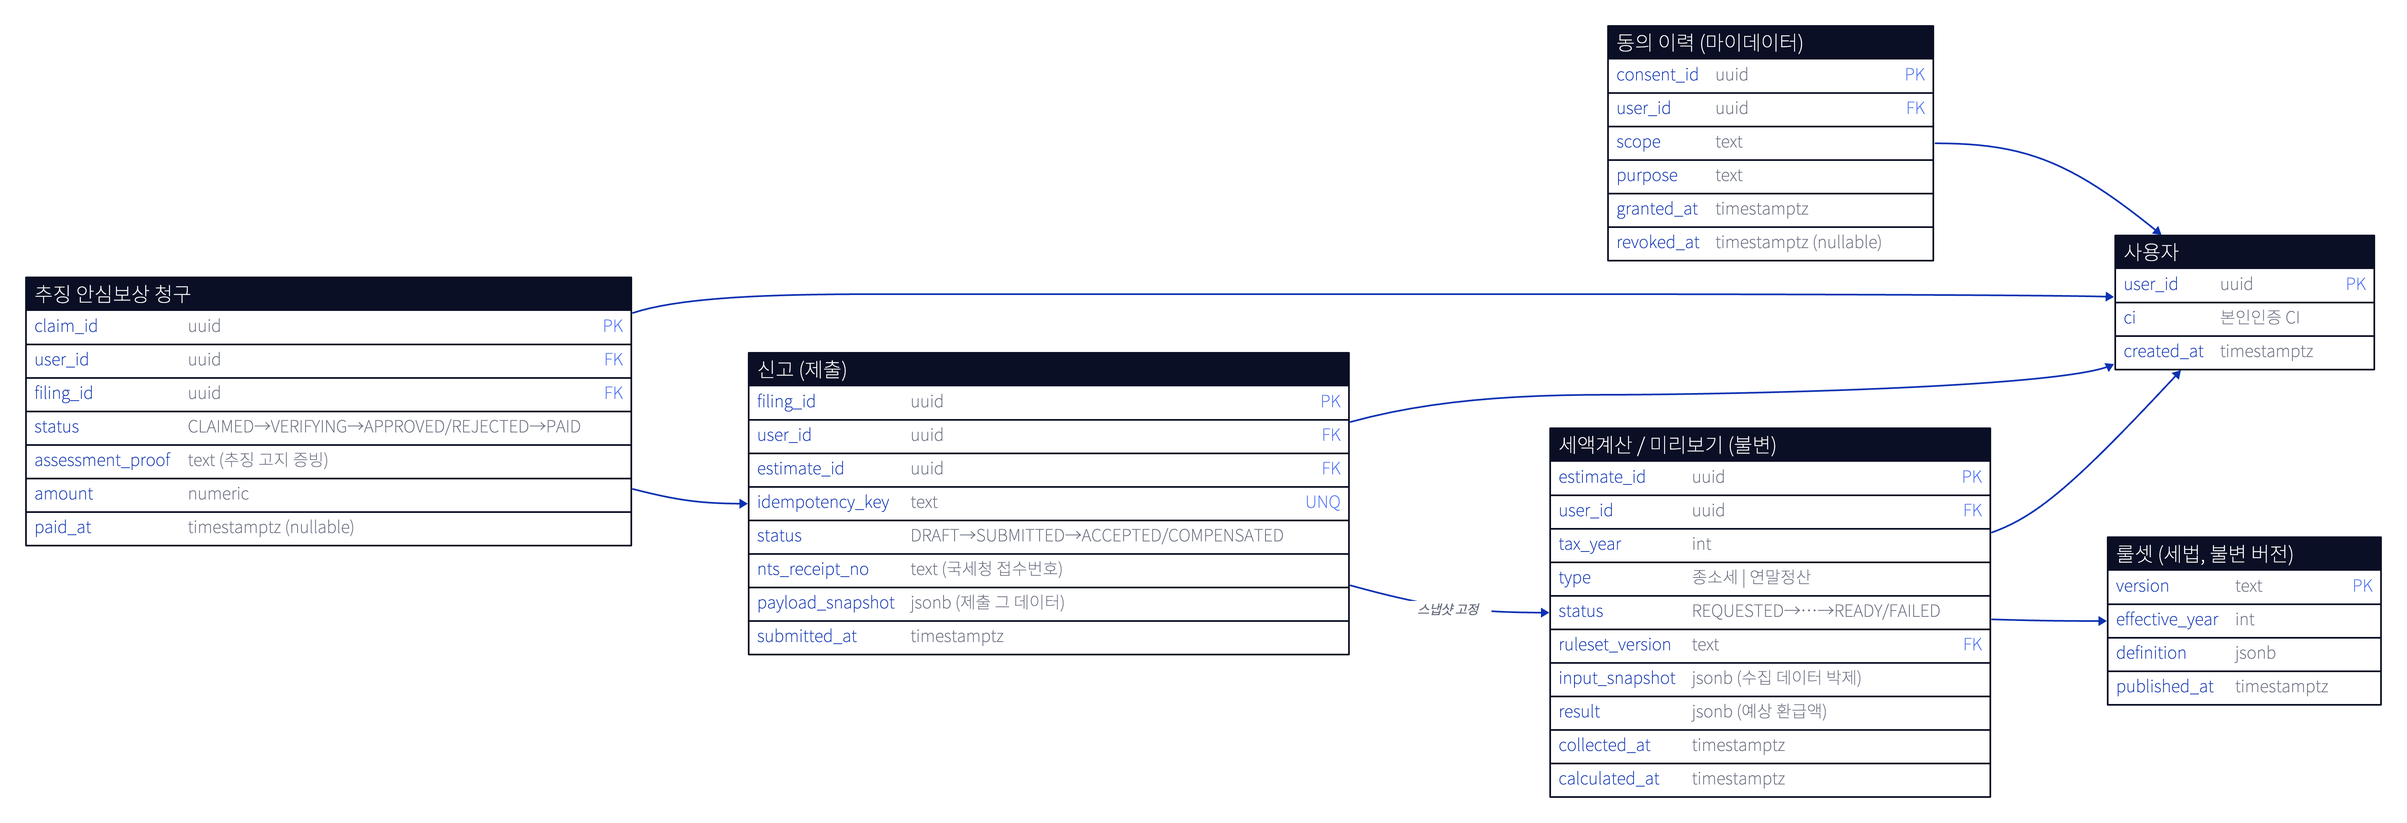
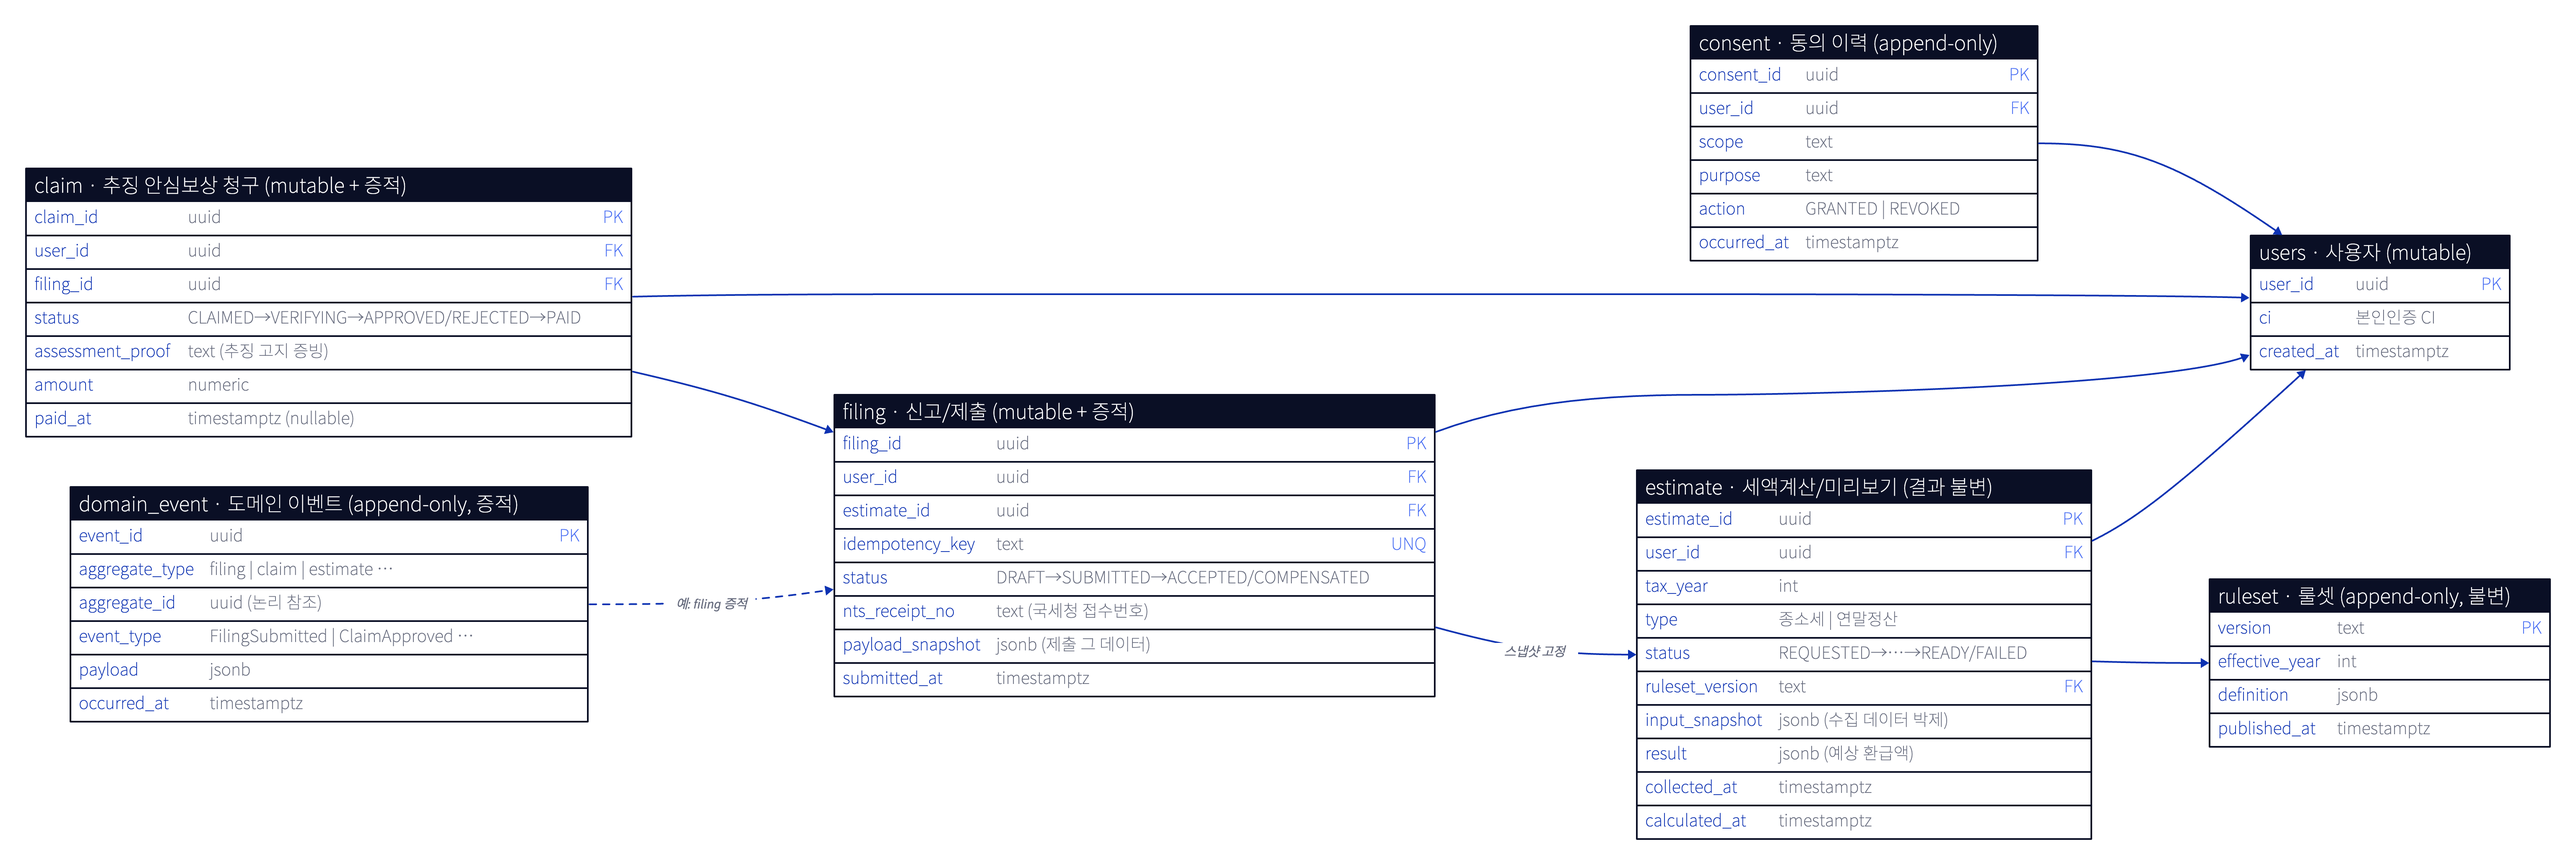
docs: 테이블 성격(mutable/append-only)·증적 정책 추가 + ERD 보강
- 테이블별 mutable vs append-only 분류 + 증적 방식 표
- 증적 backbone = 도메인 이벤트 로그(Spring Modulith 아웃박스→Kafka+domain_event), 불변 스냅샷, JaVers/Envers는 선택
- ERD: 제목 영어 먼저·한글 뒤 병기, consent append-only(action/occurred_at), domain_event 테이블 추가

diff --git a/system-design/260617-종소세-도메인모델링.md b/system-design/260617-종소세-도메인모델링.md
@@ -17,11 +17,12 @@
 
 ## 2. 바운디드 컨텍스트 / 애그리거트
 
-- **세액계산(Estimate)** — 미리보기 산출. 룰셋 버전 + 입력 스냅샷 + 결과. **불변**.
-- **신고(Filing)** — 셀프 신고 제출 사가. 멱등키 + 제출 스냅샷 + 접수번호.
-- **룰셋(RuleSet)** — 연도별 세법 룰. **불변 버전**. 계산은 항상 특정 버전 참조.
-- **보상(Claim)** — 추징 안심보상제. 청구→검증→심사→지급.
-- **동의/감사(Consent/Audit)** — 마이데이터 동의 이력, 접근 로그, 보관/파기.
+- **estimate (세액계산/미리보기)** — 미리보기 산출. 룰셋 버전 + 입력 스냅샷 + 결과. **결과 불변**.
+- **filing (신고/제출)** — 셀프 신고 제출 사가. 멱등키 + 제출 스냅샷 + 접수번호.
+- **ruleset (룰셋)** — 연도별 세법 룰. **불변 버전**. 계산은 항상 특정 버전 참조.
+- **claim (추징 안심보상 청구)** — 청구→검증→심사→지급.
+- **consent (동의 이력)** — 마이데이터 동의/철회. **append-only**(철회=새 행).
+- **domain_event (도메인 이벤트)** — 증적의 본체. **append-only** 비즈니스 사실 로그.
 - (수집/인증은 외부 의존: 국세청, 마이데이터 IdP)
 
 ## 3. ERD (초안)
@@ -71,8 +72,29 @@
 - **업무 유일키는 별도 `UNIQUE`**: `filing.idempotency_key`(이중 신고 차단)는 PK와 분리.
 - (옵션) 극한 성능이면 *내부 bigint + 외부 uuid* 2키 분리 — 지금은 과함.
 
-## 7. 열린 질문 (다음 대화거리)
-- **상태 이력**: Estimate/Filing 상태 전이를 컬럼 1개로 둘지, 별도 `*_event` 이력 테이블(이벤트 소싱 라이트)로 둘지?
+## 7. 테이블 성격 · 증적 (금융 = 증적 강함)
+
+"지금 상태"뿐 아니라 "어떻게 그 상태가 됐나"가 남아야 한다.
+
+| 테이블 | 성격 | 증적 방식 |
+|---|---|---|
+| `ruleset` | **append-only**(불변 버전) | 자체가 이력 — UPDATE 없음 |
+| `consent` | **append-only**(동의/철회=사건) | 철회도 새 행, 현재상태는 파생 |
+| `estimate` | 결과 **불변** + status 전이 | 결과행 불변, 전이는 이벤트 |
+| `filing` | **mutable** 상태 + 강증적 | current 행 + `domain_event`(append) |
+| `claim` | **mutable** 상태 + 강증적(돈) | current 행 + `domain_event`(append) |
+| `users` | mutable | 변경 이력(JaVers/Envers 선택) |
+| `domain_event` | **append-only** | 증적의 본체 |
+
+**패턴**: 수명주기 엔티티(filing/claim)는 **current-state 행(가변) + append-only 이벤트 로그**로 분리. 이벤트 로그가 증적의 진실.
+
+**기술 선택**
+- **1차 = 도메인 이벤트 로그**: `FilingSubmitted`·`ClaimApproved` 같은 **비즈니스 사실**을 불변 기록. **Spring Modulith 이벤트 발행 레지스트리(아웃박스) → Kafka + `domain_event` 테이블**. 기술 diff보다 비즈 의미가 금융 증적엔 중요.
+- **이미 깔린 불변 스냅샷**(estimate 결과·filing `payload_snapshot`·ruleset version)도 증적의 큰 축.
+- **2차(선택) = JaVers**: 가변 엔티티의 **필드 단위 "누가 뭘 바꿈"** diff가 필요할 때(프레임워크 비종속). Envers는 JPA 올인 + 리비전 time-travel 원할 때.
+- **규제 강도 높으면**: 이벤트/감사 스토어를 **append-only 권한(UPDATE/DELETE 차단) + (옵션) 해시 체인**으로 tamper-evident.
+
+## 8. 열린 질문 (다음 대화거리)
 - **보상(Claim) 사기 탐지**: 추징 고지 진위 검증을 어떻게(국세청 재조회 vs 증빙 업로드 심사)?
 - **계산 엔진**: 룰셋 `definition`을 어떤 형태로(룰 DSL / 코드 + 버전 태그)?
 - **멀티 연도**: 과거 연도 재신고/수정신고 시 룰셋·스냅샷 버전 매칭.
